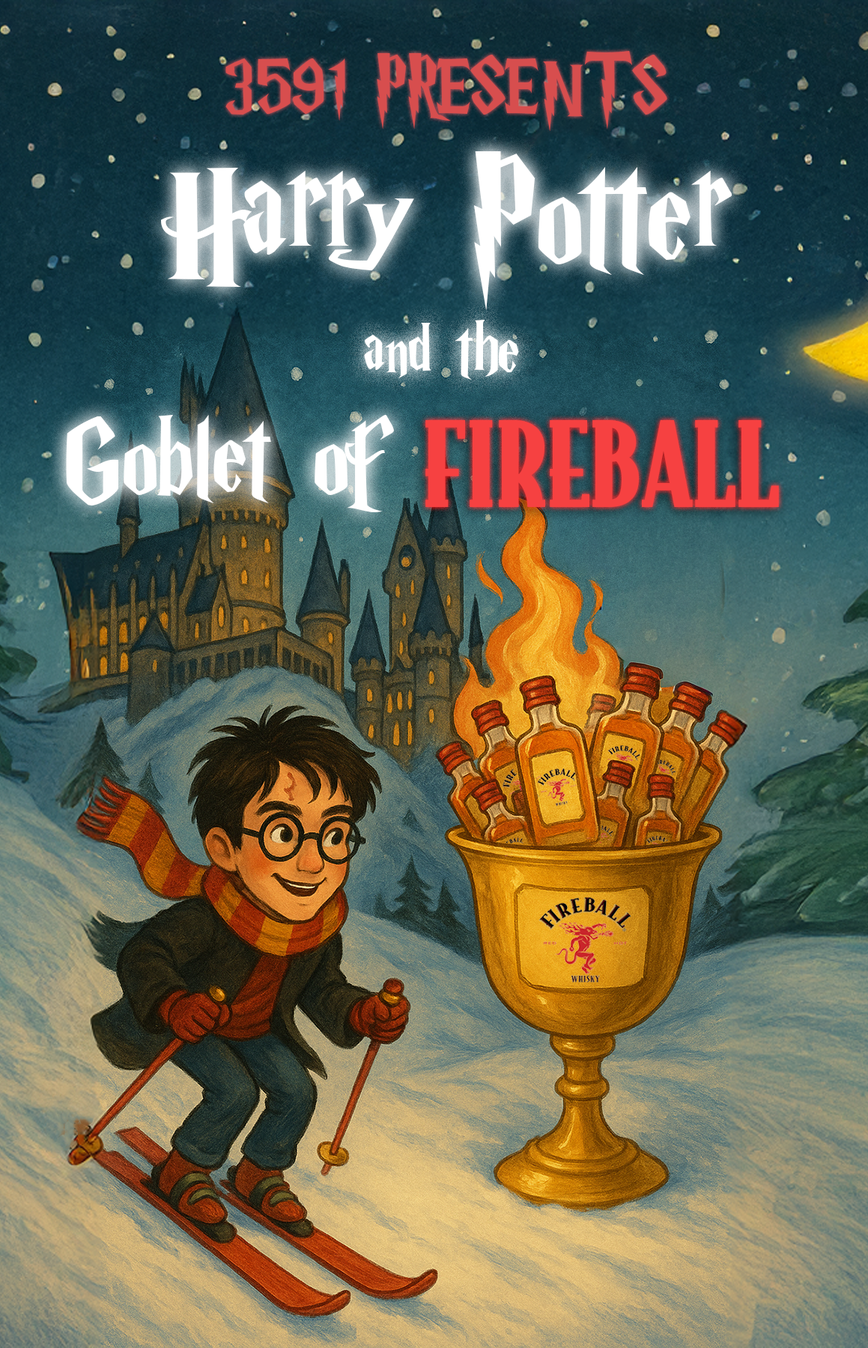
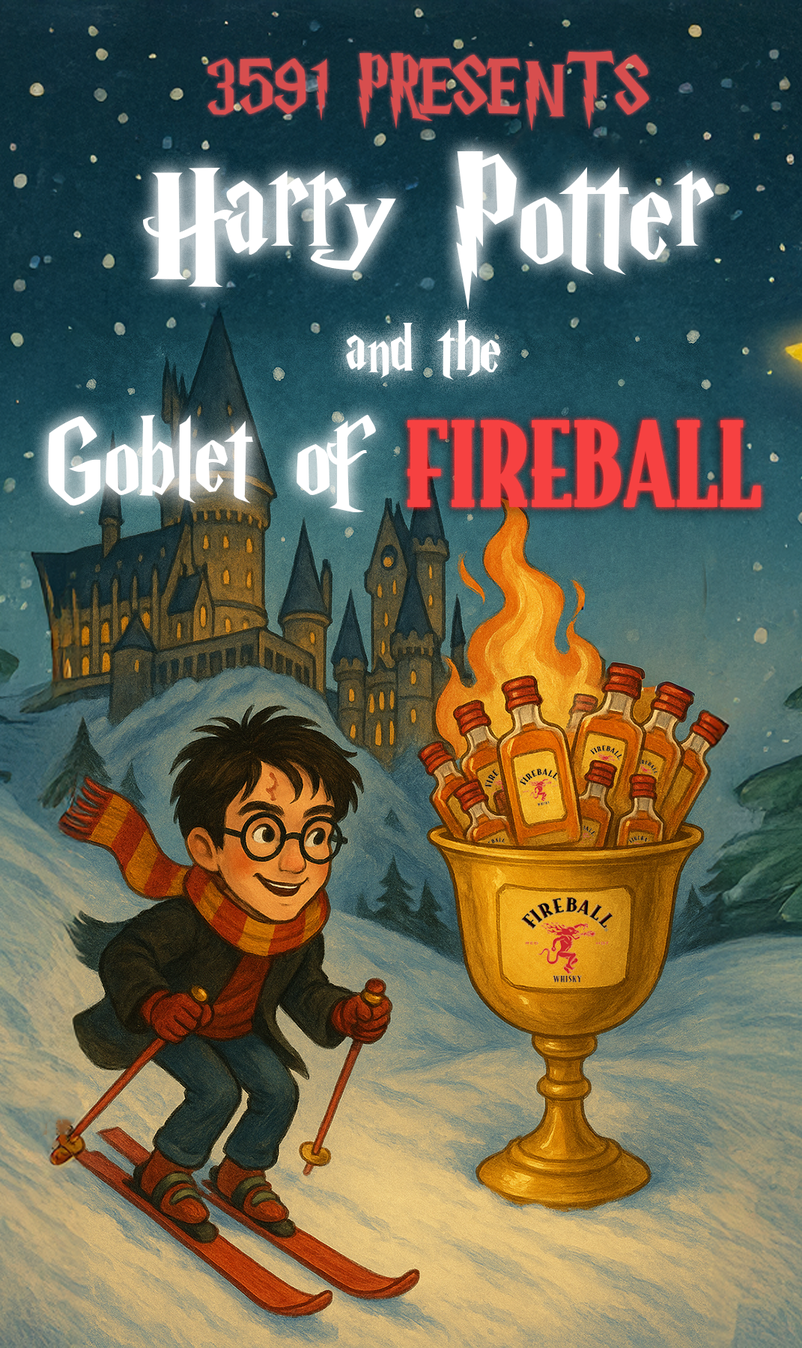
fixed aspect

diff --git a/hpparty.html b/hpparty.html
@@ -4,6 +4,33 @@
     <meta charset="UTF-8" />
     <meta name="viewport" content="width=device-width, initial-scale=1.0" />
     <title>Harry Potter 4</title>
+    <style>
+      * {
+        box-sizing: border-box;
+        margin: 0;
+        padding: 0;
+      }
+
+      body {
+        min-height: 100vh;
+        display: flex;
+        justify-content: center;
+        background-color: #000;
+      }
+
+      img {
+        width: 80vw;
+        max-width: 600px;
+        height: auto;
+      }
+
+      @media (max-width: 480px) {
+        img {
+          width: 95vw;
+          max-width: none;
+        }
+      }
+    </style>
   </head>
   <body>
     <img src="hp_main_skinny.png" alt="Harry Potter and the Goblet of Fire artwork" />
